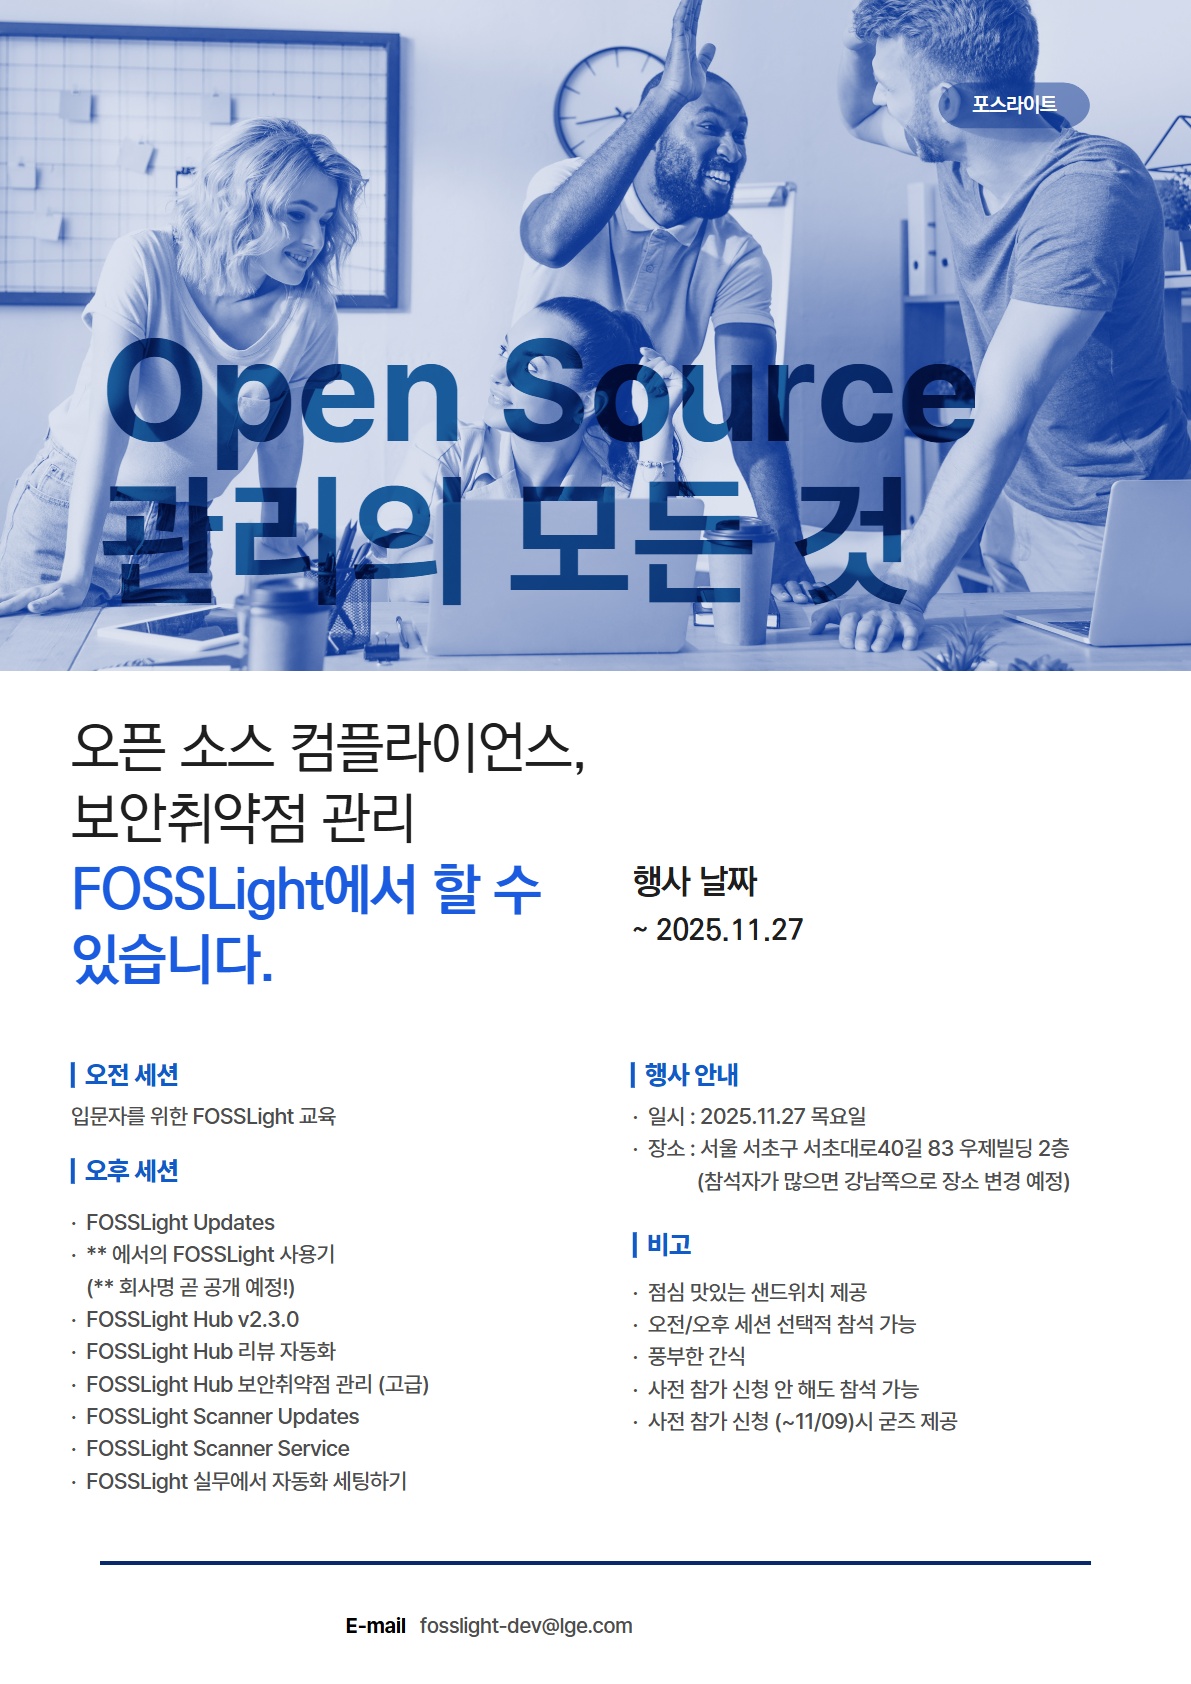
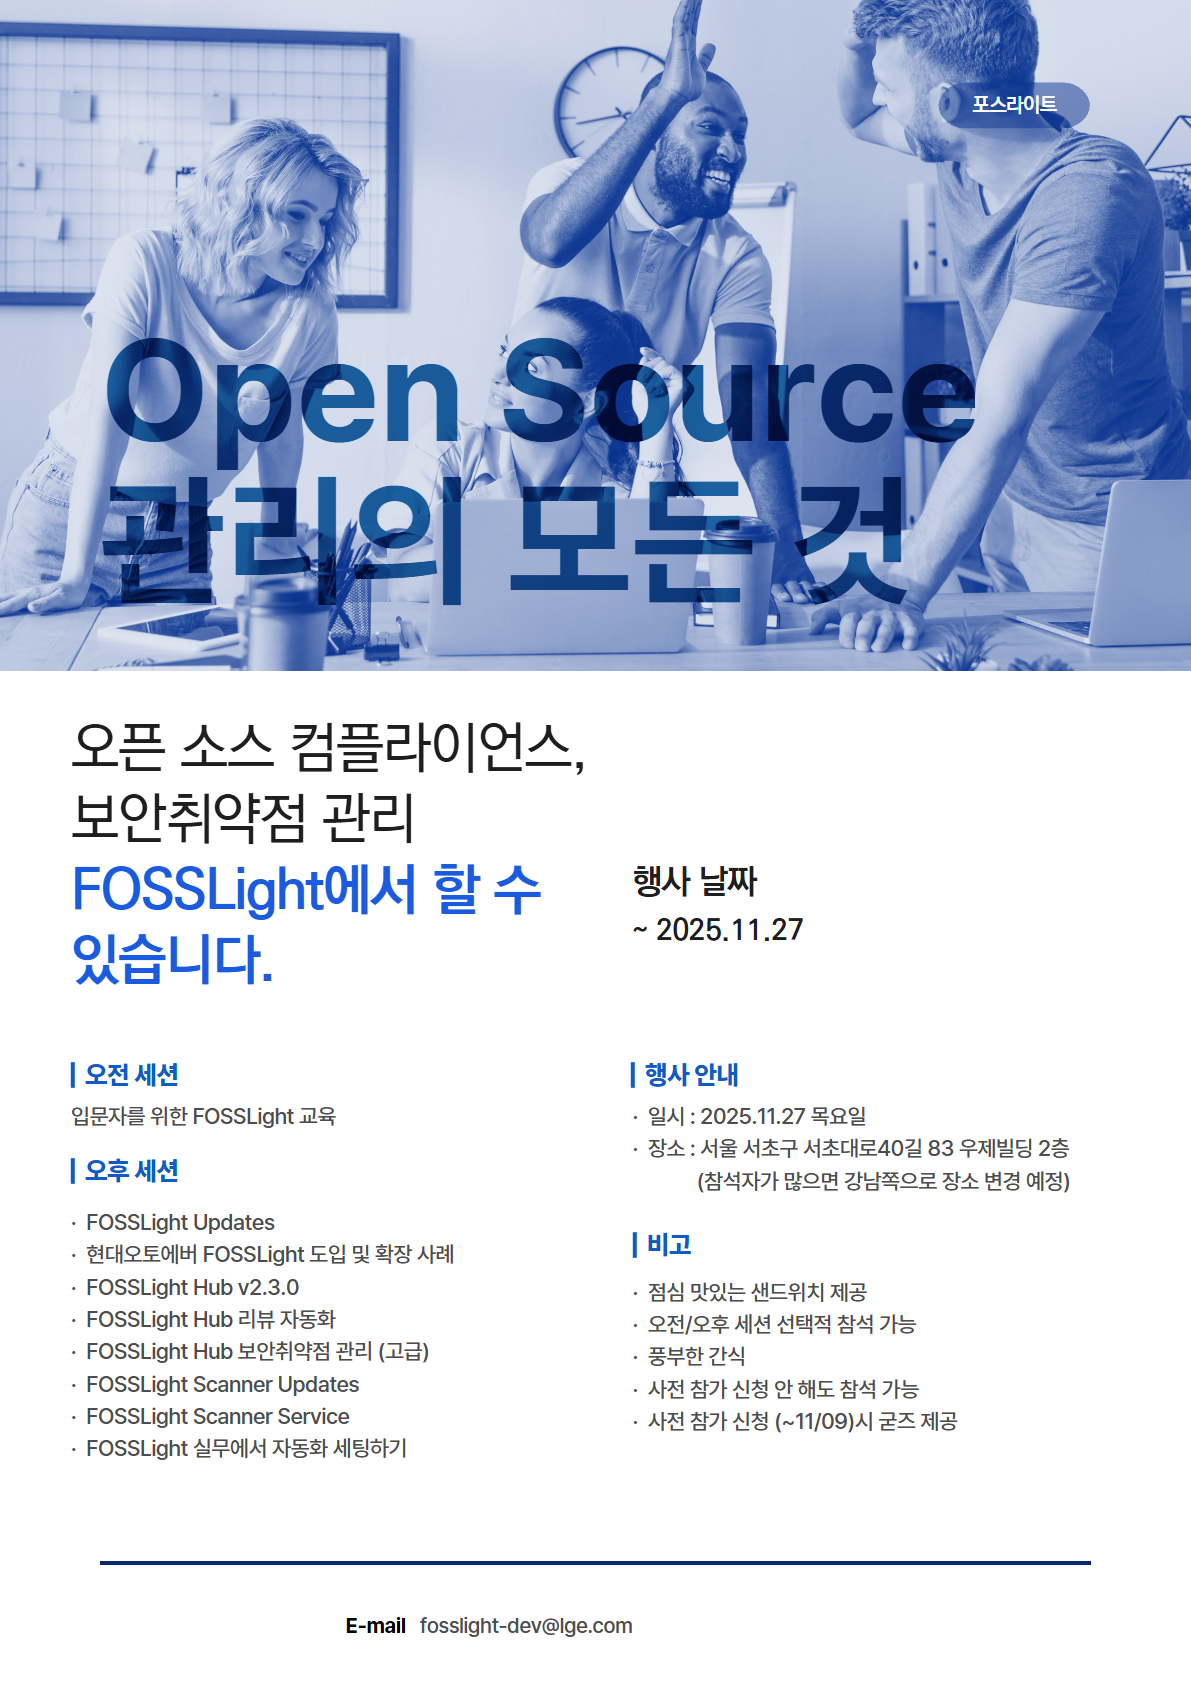
Update image for comm day

Changed region(s): [[0.0621, 0.7411, 0.3728, 0.8955]]

diff --git a/news/_posts/2025-10-02-community_day.md b/news/_posts/2025-10-02-community_day.md
@@ -27,7 +27,7 @@ hide_last_modified: true
 |10:00 ~ 12:00|FOSSLight 사용 가이드|FOSSLight 입문자를 위한 FOSSLight Scanner & Hub 가이드| | 
 |12:00 ~ 13:30|점심 시간|| | 
 |13:30 ~ 13:50|최신 Updates| 요즘 오픈 소스 세상 소식 및 FOSSLight 소식 | | 
-|13:50 ~ 14:10|현대오토에버 Fosslight 도입 및 확장 사례| 오픈소스 관리도구 도입 과정, 확장 사례, 유용한 기능, 그룹 전파 계획!|현대오토에버 이지현| 
+|13:50 ~ 14:10|현대오토에버 FOSSLight 도입 및 확장 사례| 오픈소스 관리도구 도입 과정, 확장 사례, 유용한 기능, 그룹 전파 계획!|현대오토에버 이지현| 
 |14:10 ~ 14:30|Coffee break|||
 |14:30 ~ 14:50|FOSSLight Hub v2.3.0| 새롭게 추가된 기능 그리고 숨겨진 기능을 공개합니다. ||
 |14:50 ~ 15:15|FOSSLight Hub 리뷰 자동화| 당신의 시간을 절약해주는 리뷰 자동화 방법을 소개합니다. ||
